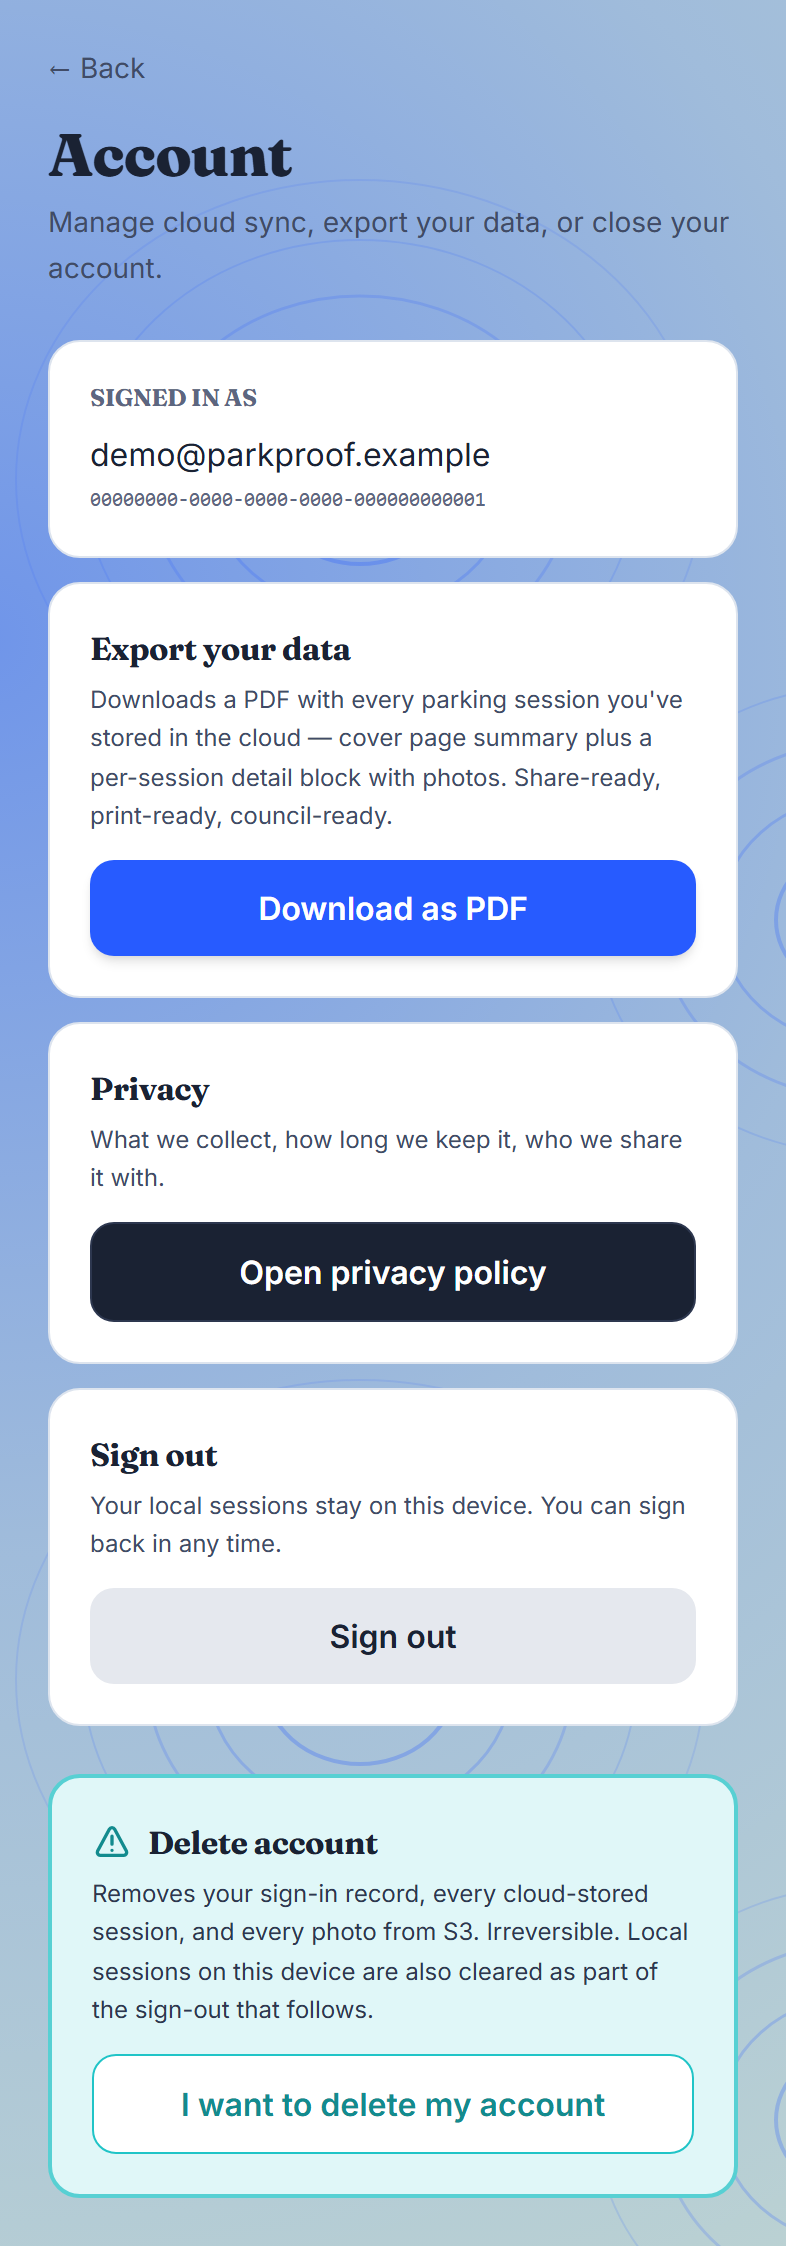
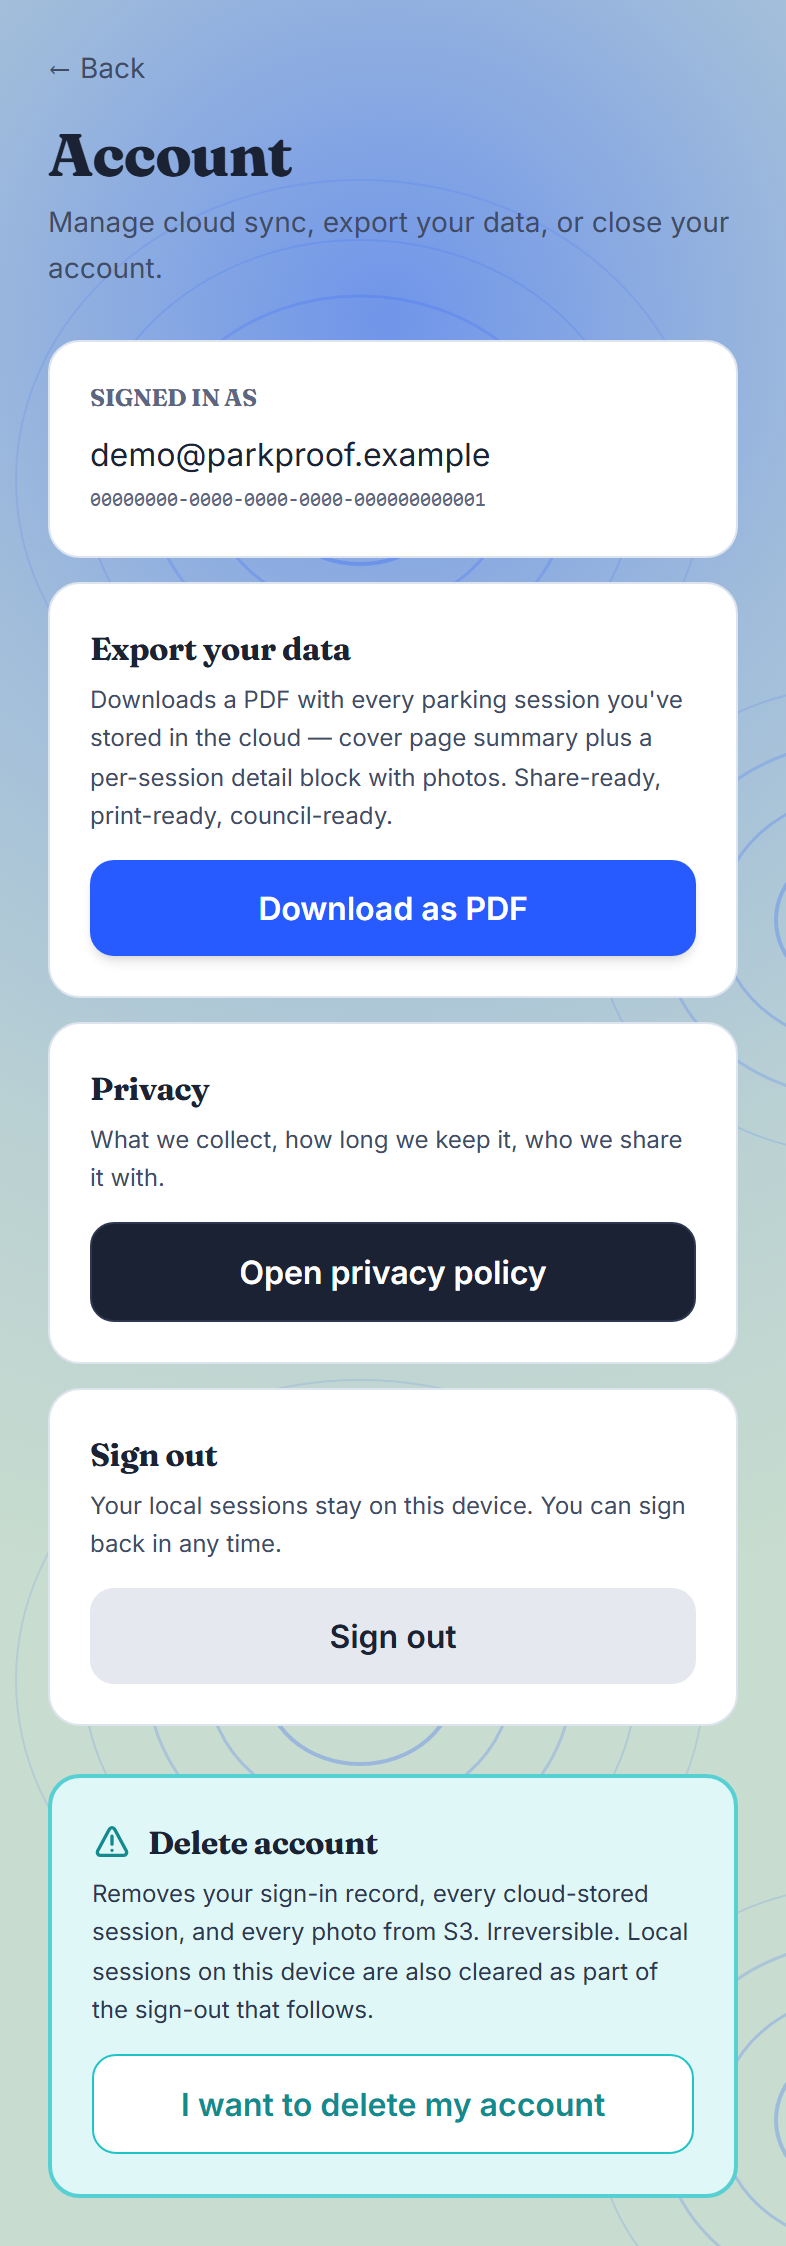
style(bg): dial aurora back from 4× to 2× (sweet spot)
4× tinted the entire hero photo blue and swallowed the sage
personality the user picked the J variant for. User feedback:
"4x is too much and is tasting poorly."

2× lands at the sweet spot: glow reaches mid-page (frames the page
header / hero / headline) but the lower half (How it works grid,
Defensible-evidence callout) stays cleanly sage. The sage rings
remain visible in the lower half rather than being washed out.

One-line CSS change — background-size for the aurora layer
1000px 1000px (was 2000px). The aurora SVG itself is untouched.

17 screenshots regenerated.

Changed region(s): [[0.0, 0.1558, 1.0, 0.935], [0.458, 0.1247, 0.5496, 0.1558]]

diff --git a/src/index.css b/src/index.css
@@ -71,13 +71,14 @@ body {
   background-repeat:
     no-repeat,
     repeat;
-  /* Aurora @ 2000x2000 (4× the SVG's native 500x500) — the radial
-     gradient stays the same shape but spills 4× further across the
-     page, so the blue glow reads as an atmospheric wash on the
-     upper portion of the screen instead of a tight corner accent.
-     User feedback: 1× looked under-committed. */
+  /* Aurora @ 1000x1000 (2× the SVG's native 500x500). The 1× original
+     read as a too-tight corner spot — under-committed. 4× went the
+     other way and tinted the entire hero, swallowing the sage
+     personality. 2× is the sweet spot: glow reaches halfway down the
+     page, frames the page header, but leaves the lower half cleanly
+     sage. */
   background-size:
-    2000px 2000px,
+    1000px 1000px,
     600px 600px;
   -webkit-font-smoothing: antialiased;
   -moz-osx-font-smoothing: grayscale;
